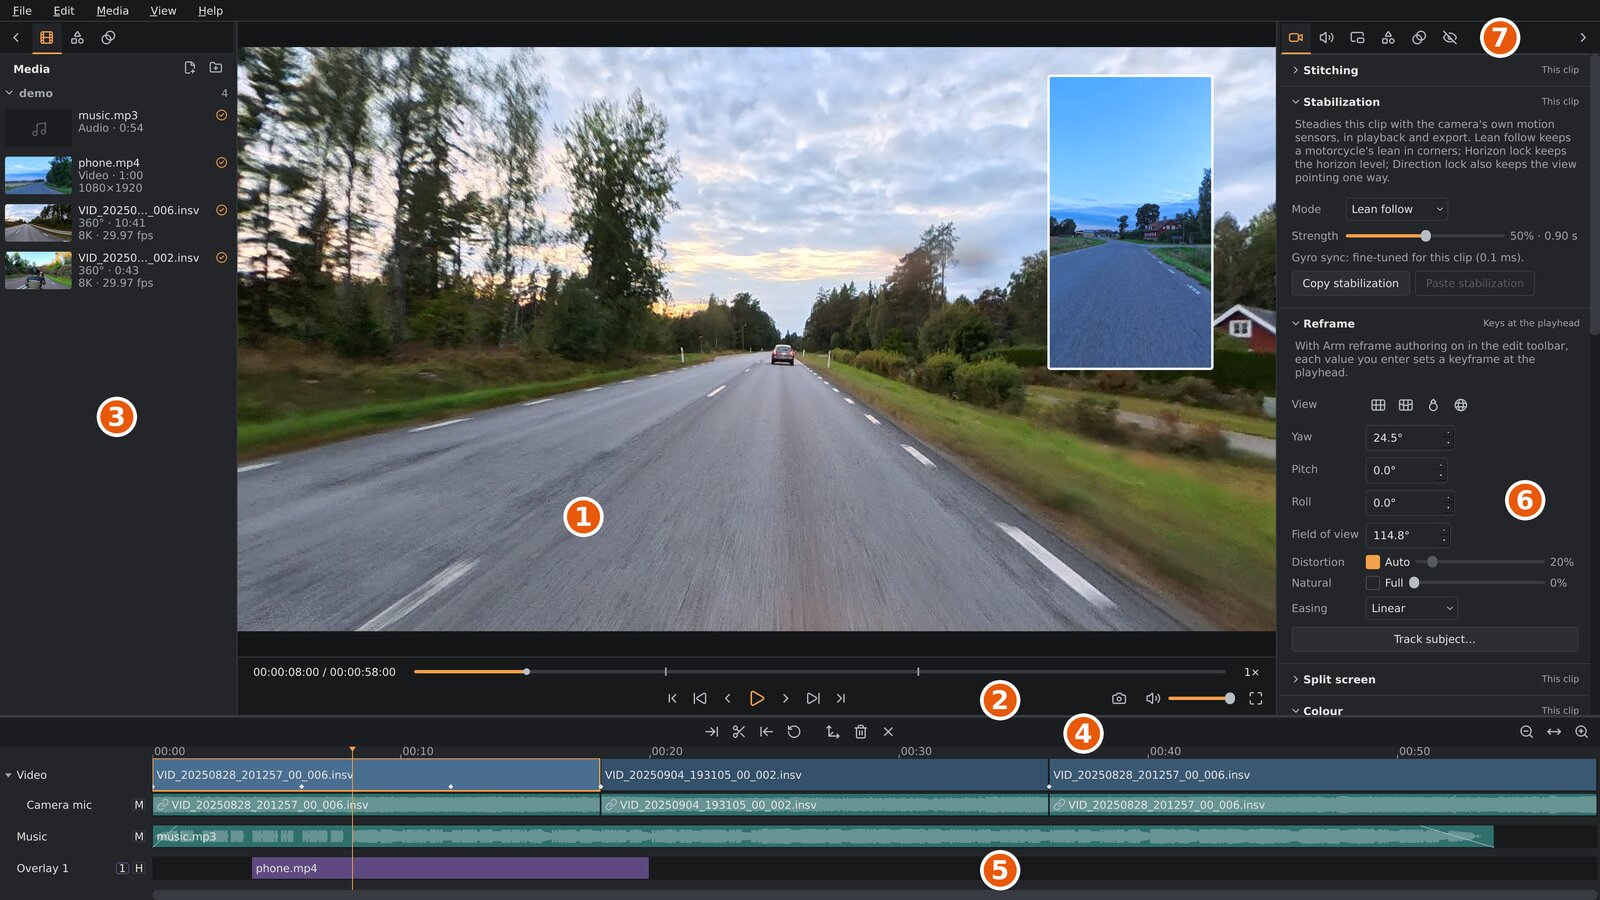
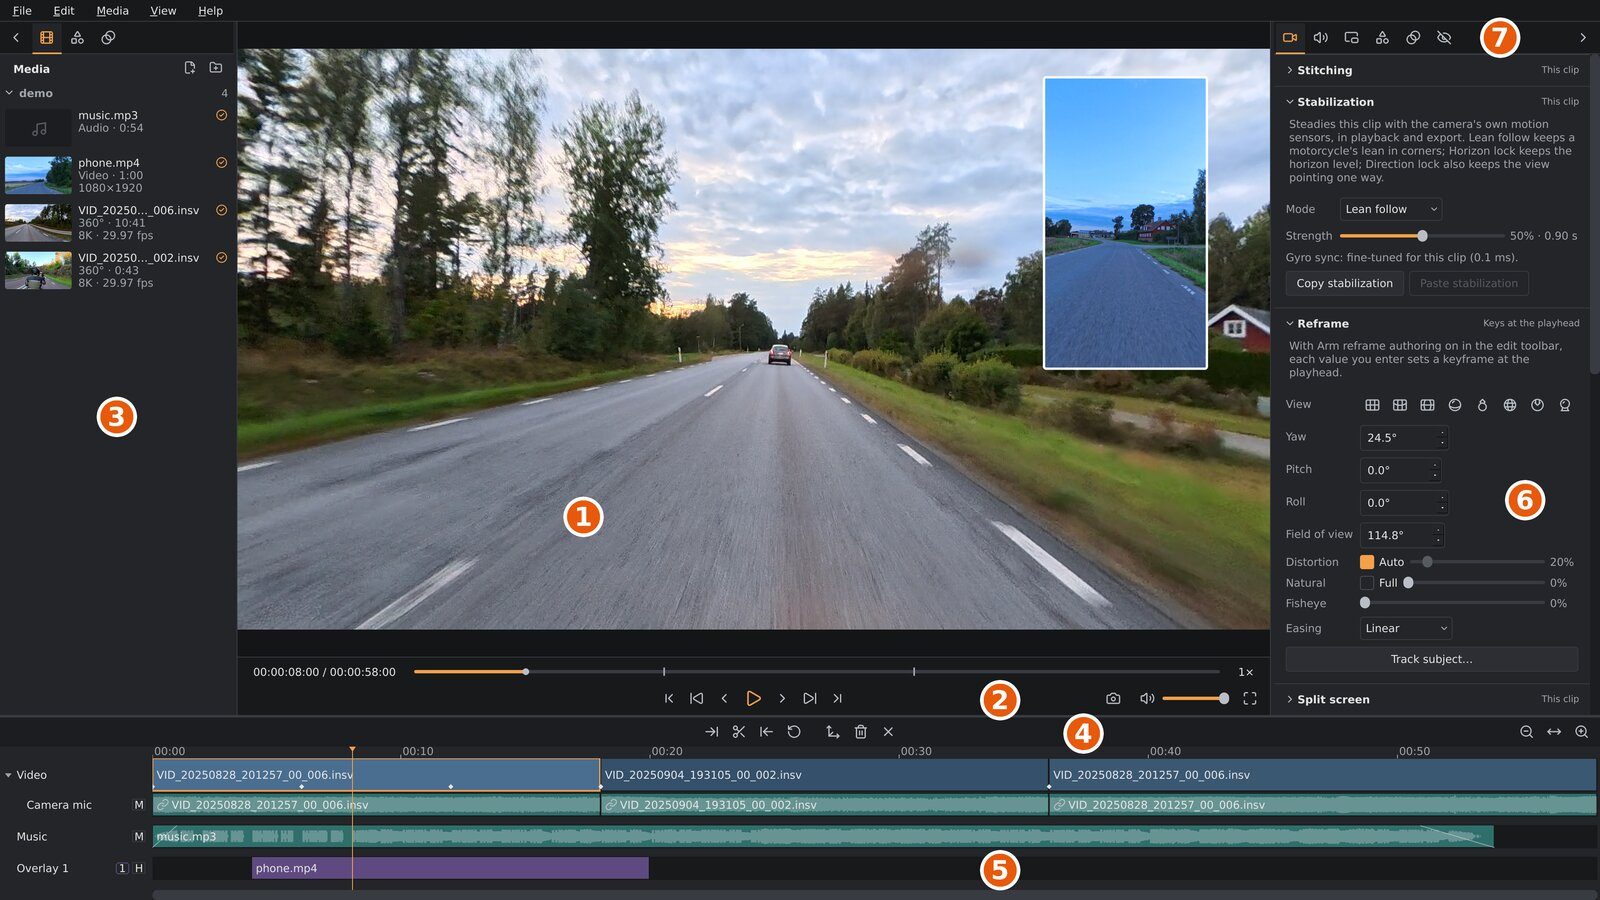
feat(ui): Fisheye, Mirror ball, Tunnel and Crystal ball view presets
The View row gets four more buttons, in pairs after Normal and Natural:
Fisheye (level, 180° at 100 % distortion, 100 % Fisheye) and Mirror ball
(level, 270°, 200 % Fisheye: the whole disc fits a 16:9 picture), then
after Tiny planet and Globe their looks upward: Tunnel (straight up,
300° at 100 %, the sky in the middle with the world round it) and
Crystal ball (straight up, 200° at 170 %, the sky in a ball on black, as
a lens-ball photo shows it). Every preset now sets Fisheye too, so
Normal and the others take it back to none. Nothing new is saved in the
project; a click is one edit as before.

The icons are our own in Lucide's style like the first four: the grid
with its uprights bulging, a shiny ball, a ball on a stand, and the tiny
planet's house hanging into a ring.

The manual's preset table gets the four rows and a Fisheye column, the
tiny planet, globe and fisheye parts point to the buttons, and the main
window, reframing and tracking screenshots are retaken with the Fisheye
row and the eight buttons.

diff --git a/tests/settings_sidebar_test.cpp b/tests/settings_sidebar_test.cpp
@@ -965,8 +965,13 @@ void testReframeViewPresets(SettingsSidebar &bar)
     auto *natural = find<QToolButton>(reframe, "reframePresetNatural");
     auto *planet = find<QToolButton>(reframe, "reframePresetTinyPlanet");
     auto *globe = find<QToolButton>(reframe, "reframePresetGlobe");
+    auto *tunnel = find<QToolButton>(reframe, "reframePresetTunnel");
+    auto *crystal = find<QToolButton>(reframe, "reframePresetCrystalBall");
+    auto *fish = find<QToolButton>(reframe, "reframePresetFisheye");
+    auto *mirror = find<QToolButton>(reframe, "reframePresetMirrorBall");
     auto *fov = find<QDoubleSpinBox>(reframe, "reframeFov");
-    if (!normal || !natural || !planet || !globe || !fov)
+    if (!normal || !natural || !planet || !globe || !tunnel || !crystal || !fish || !mirror ||
+        !fov)
         return;
     bar.setCurrentIndex(SettingsSidebar::VideoTab);
     reframe->setExpanded(true);
@@ -978,16 +983,21 @@ void testReframeViewPresets(SettingsSidebar &bar)
     start.fov = 1.0;
     start.distortion = 0.3f;
     start.panini = 0.4f;
+    start.fisheye = 0.6f;
     struct Want {
         QToolButton *button;
         double pitchDeg, fovDeg;
-        float distortion, natural;
+        float distortion, natural, fisheye;
     };
     const Want wants[] = {{normal, 0.0, ReframePose{}.fov * 180.0 / std::numbers::pi,
-                           view::kAutoDistortion, 0.0f},
-                          {natural, 0.0, 170.0, 1.0f, 1.0f},
-                          {planet, -89.0, 300.0, 1.0f, 0.0f},
-                          {globe, -89.0, 200.0, 1.7f, 0.0f}};
+                           view::kAutoDistortion, 0.0f, 0.0f},
+                          {natural, 0.0, 170.0, 1.0f, 1.0f, 0.0f},
+                          {fish, 0.0, 180.0, 1.0f, 0.0f, 1.0f},
+                          {mirror, 0.0, 270.0, 1.0f, 0.0f, 2.0f},
+                          {planet, -89.0, 300.0, 1.0f, 0.0f, 0.0f},
+                          {globe, -89.0, 200.0, 1.7f, 0.0f, 0.0f},
+                          {tunnel, 89.0, 300.0, 1.0f, 0.0f, 0.0f},
+                          {crystal, 89.0, 200.0, 1.7f, 0.0f, 0.0f}};
     for (const Want &w : wants) {
         reframe->setPose(start);
         edited.clear();
@@ -1001,7 +1011,7 @@ void testReframeViewPresets(SettingsSidebar &bar)
         CHECK(p.yaw == start.yaw && p.roll == 0.0f);
         CHECK(std::abs(p.pitch * 180.0 / std::numbers::pi - w.pitchDeg) < 1e-4);
         CHECK(std::abs(p.fov * 180.0 / std::numbers::pi - w.fovDeg) < 1e-4);
-        CHECK(p.distortion == w.distortion && p.panini == w.natural);
+        CHECK(p.distortion == w.distortion && p.panini == w.natural && p.fisheye == w.fisheye);
         CHECK(p.fov <= view::maxFov(p) && p.fov >= view::kMinFov);
         CHECK(std::abs(fov->value() - w.fovDeg) < 0.05);
     }

diff --git a/src/ui/panels/ReframePanel.cpp b/src/ui/panels/ReframePanel.cpp
@@ -59,6 +59,16 @@ const ViewPreset kViewPresets[] = {
      QT_TRANSLATE_NOOP("ReframePanel", "a wide view with upright lines upright, "
                                        "level, 170° at 100 % distortion and full Natural."),
      0.0, 170.0, 1.0f, 1.0f},
+    {"reframePresetFisheye", "view-fisheye",
+     QT_TRANSLATE_NOOP("ReframePanel", "Fisheye"),
+     QT_TRANSLATE_NOOP("ReframePanel", "a true fisheye, level, 180° at 100 % distortion "
+                                       "and 100 % Fisheye."),
+     0.0, 180.0, 1.0f, 0.0f, 1.0f},
+    {"reframePresetMirrorBall", "view-mirror-ball",
+     QT_TRANSLATE_NOOP("ReframePanel", "Mirror ball"),
+     QT_TRANSLATE_NOOP("ReframePanel", "the whole world in a disc on black, level, 270° "
+                                       "at 100 % distortion and 200 % Fisheye."),
+     0.0, 270.0, 1.0f, 0.0f, 2.0f},
     {"reframePresetTinyPlanet", "view-tiny-planet",
      QT_TRANSLATE_NOOP("ReframePanel", "Tiny planet"),
      QT_TRANSLATE_NOOP("ReframePanel", "looking straight down, 300° at 100 % "
@@ -69,6 +79,16 @@ const ViewPreset kViewPresets[] = {
      QT_TRANSLATE_NOOP("ReframePanel", "the world as a ball on black, looking straight "
                                        "down, 200° at 170 % distortion."),
      -89.0, 200.0, 1.7f, 0.0f},
+    {"reframePresetTunnel", "view-tunnel",
+     QT_TRANSLATE_NOOP("ReframePanel", "Tunnel"),
+     QT_TRANSLATE_NOOP("ReframePanel", "the sky in the middle with the world round it, "
+                                       "looking straight up, 300° at 100 % distortion."),
+     89.0, 300.0, 1.0f, 0.0f},
+    {"reframePresetCrystalBall", "view-crystal-ball",
+     QT_TRANSLATE_NOOP("ReframePanel", "Crystal ball"),
+     QT_TRANSLATE_NOOP("ReframePanel", "the sky in a ball on black, looking straight up, "
+                                       "200° at 170 % distortion."),
+     89.0, 200.0, 1.7f, 0.0f},
 };
 } // namespace
 

diff --git a/src/ui/panels/ReframePanel.h b/src/ui/panels/ReframePanel.h
@@ -28,10 +28,10 @@ class QToolButton;
 // none, or an amount 0-100 % on its slider; Fisheye 0-200 % (100 % the
 // fisheye, 200 % the mirror ball).
 //
-// The View buttons set a whole view shape at once -- Normal, Natural, Tiny
-// planet, Globe -- as if their values were typed into the fields: one edit,
-// yaw kept. They are a quicker way to the values, not a mode; the fields
-// stay the view.
+// The View buttons set a whole view shape at once -- Normal, Natural,
+// Fisheye, Mirror ball, Tiny planet, Globe, Tunnel, Crystal ball -- as if
+// their values were typed into the fields: one edit, yaw kept. They are a
+// quicker way to the values, not a mode; the fields stay the view.
 //
 // A split clip (SplitScreenPanel sets the layout): which pane the fields and
 // the viewport steer, the active pane.

diff --git a/tests/theme_test.cpp b/tests/theme_test.cpp
@@ -111,7 +111,8 @@ void testIcons()
                              "download", "upload", "eye-off", "file-plus-2", "folder-open", "info", "layers",
                              "move-3d", "palette", "pause", "picture-in-picture-2", "rotate-ccw",
                              "save", "trash-2", "vibrate", "volume-2", "x", "view-normal", "view-natural",
-                             "view-tiny-planet", "view-globe"}) {
+                             "view-tiny-planet", "view-globe", "view-tunnel", "view-crystal-ball",
+                             "view-fisheye", "view-mirror-ball"}) {
         const QColor s = strokeColor(theme::icon(QString::fromLatin1(name)).pixmap(24, 24));
         if (!near(s, c.icon))
             std::printf("FAIL  icon %s isn't drawn in the icon colour\n", name), ++g_failures;

diff --git a/docs/manual/reframing.md b/docs/manual/reframing.md
@@ -47,17 +47,21 @@ corners stay where they were, the edges of the picture move.
 
 ### View presets
 
-The four buttons in the **View** row of the **Reframe** section set the
+The eight buttons in the **View** row of the **Reframe** section set the
 shape of the view in one click; hold the pointer over one for its name and
 what it sets. They keep the yaw, so the camera still looks the same way,
 and set the roll to 0°:
 
-| Button | Pitch | Field of view | Distortion | Natural |
-|---|---|---|---|---|
-| **Normal**: a straight grid | 0° | 115° | Auto | Off |
-| **Natural**: the grid with a bent horizon | 0° | 170° | 100 % | Full |
-| **Tiny planet**: a house on a small world | −89° | 300° | 100 % | Off |
-| **Globe**: a ball | −89° | 200° | 170 % | Off |
+| Button | Pitch | Field of view | Distortion | Natural | Fisheye |
+|---|---|---|---|---|---|
+| **Normal**: a straight grid | 0° | 115° | Auto | Off | 0 % |
+| **Natural**: the grid with a bent horizon | 0° | 170° | 100 % | Full | 0 % |
+| **Fisheye**: the grid bulging out | 0° | 180° | 100 % | Off | 100 % |
+| **Mirror ball**: a shiny ball | 0° | 270° | 100 % | Off | 200 % |
+| **Tiny planet**: a house on a small world | −89° | 300° | 100 % | Off | 0 % |
+| **Globe**: a ball | −89° | 200° | 170 % | Off | 0 % |
+| **Tunnel**: a house hanging into a ring | 89° | 300° | 100 % | Off | 0 % |
+| **Crystal ball**: a ball on a stand | 89° | 200° | 170 % | Off | 0 % |
 
 A button does what typing those values into the fields would: with **Arm
 reframe authoring** on it sets a keyframe at the playhead, and **Edit ▸
@@ -97,7 +101,8 @@ narrows a view that is wider than it allows.
 
 For a **tiny planet**, click **Tiny planet** under **View**, or look
 straight down (pitch −89°) and widen the field of view to 250° or more: the ground curls into a small globe with the sky
-around it. Looking straight up instead turns the sky into a tunnel. A
+around it. Looking straight up instead turns the sky into a tunnel, with
+the world round it (**Tunnel** under **View**). A
 keyframe move from a normal view to a tiny planet zooms out smoothly, and
 with Auto on both keyframes the picture bends more and more as it widens.
 
@@ -113,8 +118,8 @@ At 200 % you see one half of the world in the disc, the half the view looks
 at. 100 % is the middle of the slider.
 
 **Globe** under **View** sets one up. Look straight down for a
-planet-like globe, or straight up for the sky in a
-ball. On a globe, **Field of view** still sets how big the picture is: the
+planet-like globe, or straight up for the sky in a ball, the look of a
+crystal ball photo (**Crystal ball** under **View**). On a globe, **Field of view** still sets how big the picture is: the
 disc is as large as the tiny planet at that angle would be at 100 %, so
 wider makes the globe smaller. Auto never goes past 100 %, so zooming out
 on Auto gives a tiny planet, not a globe; untick it and drag the slider
@@ -173,7 +178,8 @@ true fisheye: how far a thing is from the middle of the picture is how far
 it is from where the view looks, so the picture can take in the whole
 world, with what's behind you round its rim and black beyond. Past 100 %
 the picture draws together into a **mirror ball**, the whole world in a
-disc on black, at 200 %. The middle of the ball is where the view looks; a
+disc on black, at 200 %. **Fisheye** and **Mirror ball** under **View**
+set them up. The middle of the ball is where the view looks; a
 real mirror ball shows the camera in its middle, which you get by turning
 the yaw 180°.
 
